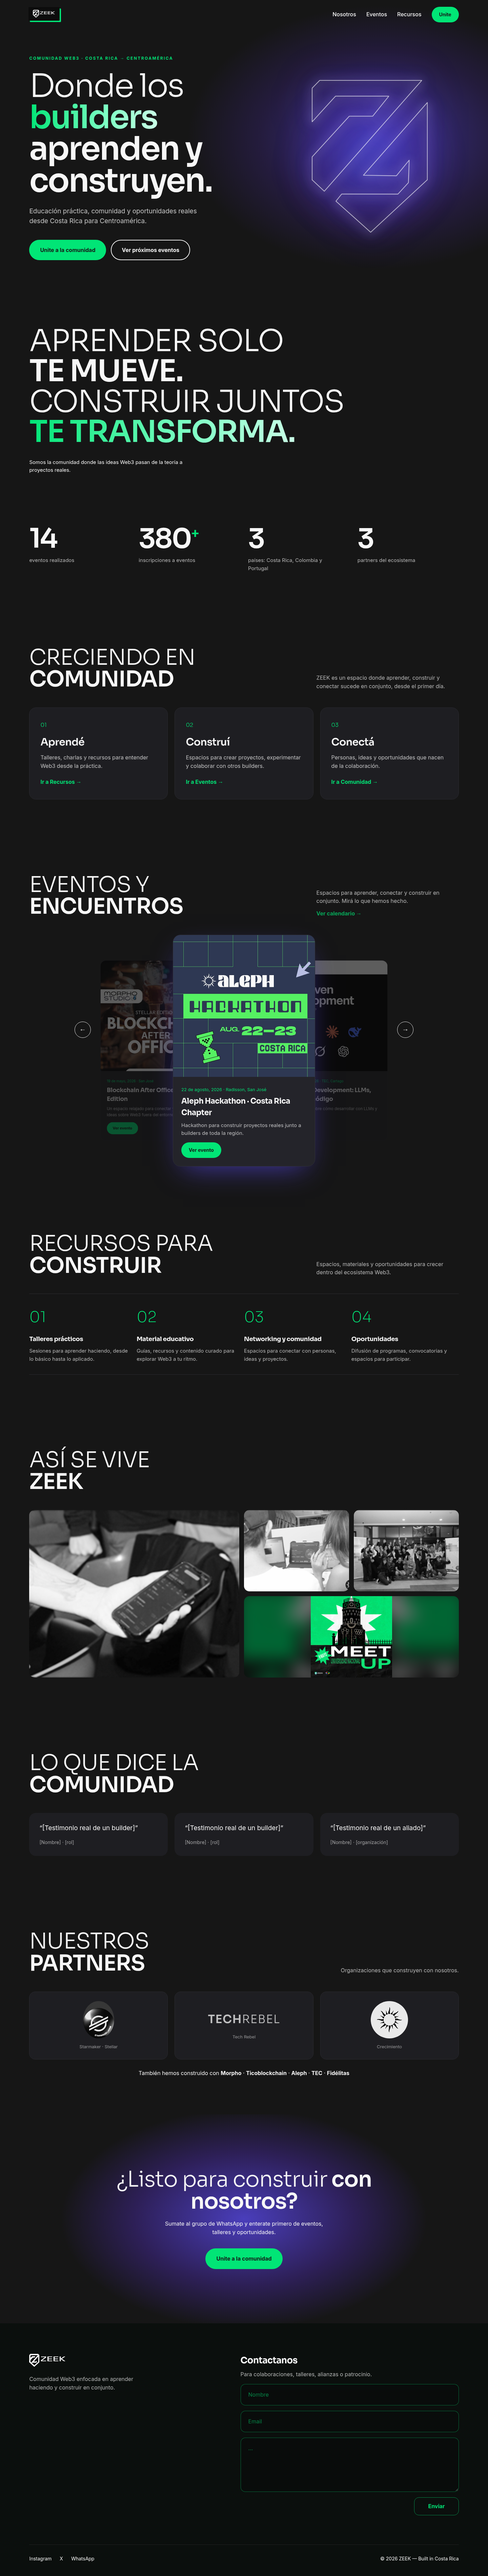
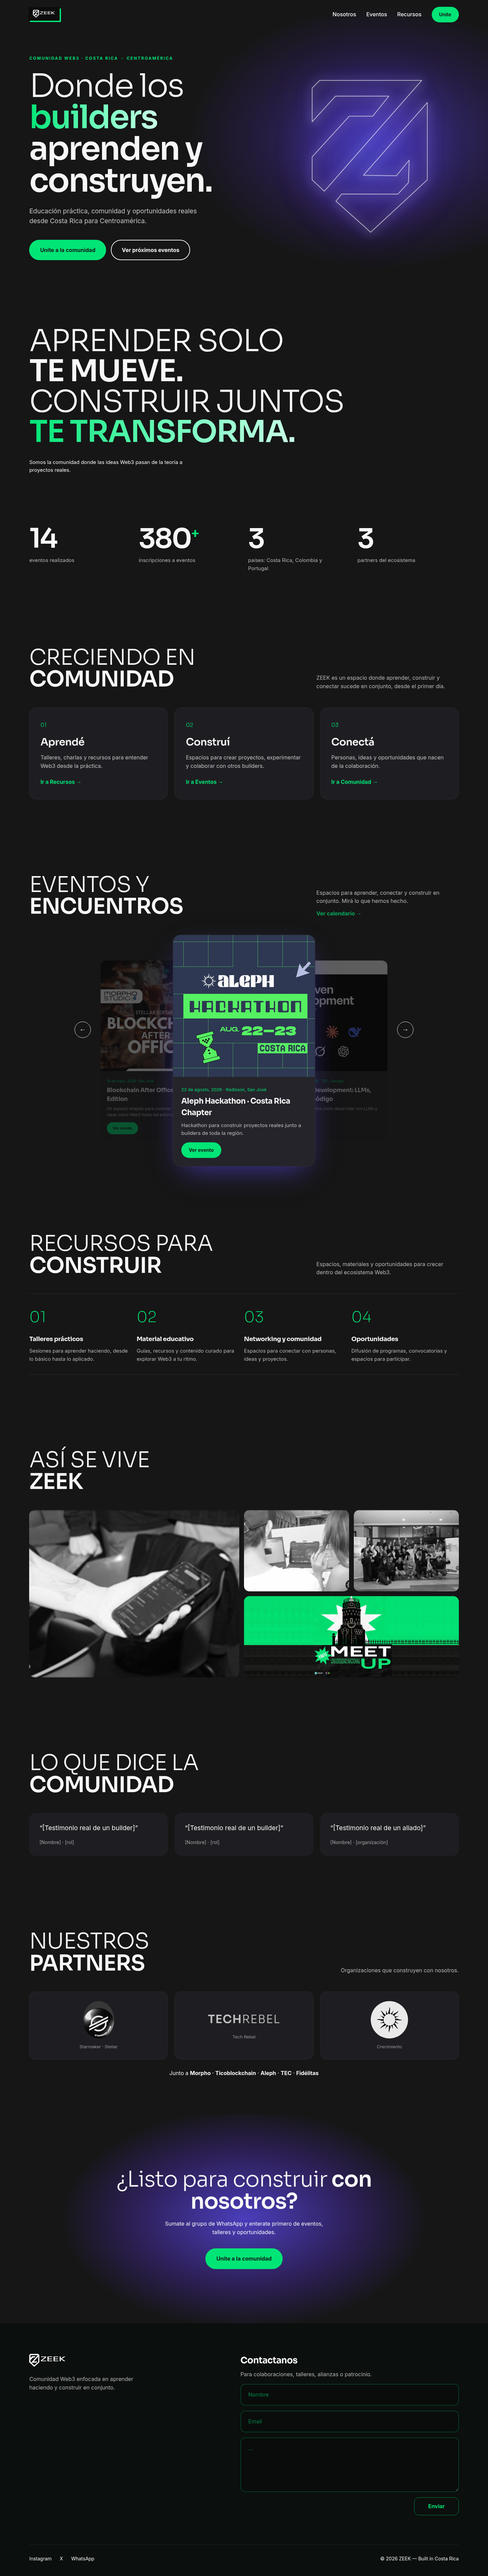
P9: poster ancho en galeria, Junto a

Changed region(s): [[0.7812, 0.5929, 0.9375, 0.6553], [0.5, 0.5929, 0.6562, 0.6553]]

diff --git a/p9/index.html b/p9/index.html
@@ -55,7 +55,7 @@ h2{font-size:clamp(30px,4.4vw,68px);line-height:1.02;text-transform:uppercase}.h
 /* recursos */
 .rec{display:grid;grid-template-columns:repeat(4,1fr);border-top:1px solid #2c2c30}.rec article{padding:34px 26px 34px 0;border-bottom:1px solid #2c2c30}.rec b{font-family:Sora;font-weight:200;font-size:44px;color:var(--g);display:block;margin-bottom:18px}.rec h3{font-size:18px;margin-bottom:8px}.rec p{opacity:.7;font-size:15px}
 /* gallery */
-.gal{display:grid;grid-template-columns:2fr 1fr 1fr;grid-template-rows:240px 240px;gap:14px}.gal img,.phd{width:100%;height:100%;object-fit:cover;border-radius:16px}.gal img:first-child{grid-row:span 2}.gal .wide{grid-column:span 2}.fit{position:relative;overflow:hidden;border-radius:16px;background:#111}.fit::before{content:"";position:absolute;inset:-20px;background:var(--bg) center/cover;filter:blur(24px) brightness(.45)}.gal .fit img{position:relative;width:100%;height:100%;object-fit:contain;border-radius:0}.phd{display:grid;place-items:center;grid-column:span 2;border:1px dashed #3a3a44;opacity:.6;font-weight:700}
+.gal{display:grid;grid-template-columns:2fr 1fr 1fr;grid-template-rows:240px 240px;gap:14px}.gal img,.phd{width:100%;height:100%;object-fit:cover;border-radius:16px}.gal img:first-child{grid-row:span 2}.gal .wide{grid-column:span 2;object-fit:cover;object-position:center}.fit{position:relative;overflow:hidden;border-radius:16px;background:#111}.fit::before{content:"";position:absolute;inset:-20px;background:var(--bg) center/cover;filter:blur(24px) brightness(.45)}.gal .fit img{position:relative;width:100%;height:100%;object-fit:contain;border-radius:0}.phd{display:grid;place-items:center;grid-column:span 2;border:1px dashed #3a3a44;opacity:.6;font-weight:700}
 .tq{display:grid;grid-template-columns:repeat(3,1fr);gap:20px}.tq blockquote{padding:30px;border-radius:20px;background:var(--c);font-size:19px}.tq cite{display:block;margin-top:16px;font-style:normal;font-size:14px;opacity:.6}
 /* cierre */
 .cierre{text-align:center;padding:160px 6vw;background:radial-gradient(ellipse 50% 70% at 50% 50%,rgba(91,75,242,.75),rgba(99,53,237,.3) 45%,transparent 75%)}
@@ -74,7 +74,7 @@ form input::placeholder,form textarea::placeholder{color:rgba(1,229,118,.55)}for
 section{padding:72px 6vw}.hero{grid-template-columns:1fr;min-height:auto;padding-top:130px;background:radial-gradient(ellipse 90% 40% at 50% 80%,rgba(91,75,242,.5),transparent 70%)}.hero h1{font-size:clamp(32px,9.6vw,56px)}.iso{max-width:300px;margin:20px auto 0}
 .mani p{font-size:clamp(24px,7.6vw,48px)}.stats{grid-template-columns:1fr 1fr}.cards,.tq{grid-template-columns:1fr}.rec{grid-template-columns:1fr 1fr}
 .car{height:600px}#pv{left:0}#nx{right:0}.slide.h{transform:scale(.6);opacity:0;z-index:0;pointer-events:none}.cal{display:inline-block;margin-top:12px;color:var(--g);font-weight:700}.slide.l{transform:translateX(-30%) scale(.8)}.slide.r{transform:translateX(30%) scale(.8)}
-.gal{grid-template-columns:1fr 1fr;grid-template-rows:160px 160px 160px}.gal img:first-child{grid-column:span 2;grid-row:auto}footer{grid-template-columns:1fr}.soc span{margin-left:0}h2{font-size:clamp(26px,7.6vw,40px)}.cierre{padding:110px 6vw}}
+.gal{grid-template-columns:1fr 1fr;grid-template-rows:160px 160px auto}.gal .wide{height:auto;aspect-ratio:2/1}.gal img:first-child{grid-column:span 2;grid-row:auto}footer{grid-template-columns:1fr}.soc span{margin-left:0}h2{font-size:clamp(26px,7.6vw,40px)}.cierre{padding:110px 6vw}}
 .pl{display:grid;grid-template-columns:repeat(3,1fr);gap:20px}.pl a{display:flex;flex-direction:column;align-items:center;justify-content:center;gap:14px;height:200px;border-radius:18px;background:var(--c);border:1px solid #2b2b31;transition:.3s}.pl img{height:110px;max-width:70%;object-fit:contain;border-radius:50%;filter:grayscale(1) brightness(1.5) contrast(1.15);opacity:.9;transition:.3s}.pl span{font-size:13px;opacity:.55}.pl a:hover{border-color:var(--g)}.pl a:hover img{filter:none;opacity:1}.wm{font-family:Sora;font-size:34px;font-weight:600;letter-spacing:.04em;opacity:.75;transition:.3s}.wm i{font-style:normal;font-weight:300}.pl a:hover .wm{opacity:1;color:var(--g)}.also{margin-top:28px;opacity:.65;text-align:center}.also b{font-weight:600;color:var(--w)}@media(max-width:860px){.pl{grid-template-columns:1fr}.pl a{height:150px}}</style></head><body>
 <header class="nav" id="nav"><a class="logo" href="#top"><span><img src="assets/zeek-navbar.png" alt="ZEEK"></span></a>
 <input type="checkbox" id="m"><label for="m" class="burger">☰</label>
@@ -96,11 +96,11 @@ section{padding:72px 6vw}.hero{grid-template-columns:1fr;min-height:auto;padding
 <div class="cc"><div class="dots" id="dots"></div></div></section>
 <section id="recursos"><div class="hd"><h2><span class="thin">Recursos para</span><br><span class="heavy">construir</span></h2><p>Espacios, materiales y oportunidades para crecer dentro del ecosistema Web3.</p></div>
 <div class="rec"><article><b>01</b><h3>Talleres prácticos</h3><p>Sesiones para aprender haciendo, desde lo básico hasta lo aplicado.</p></article><article><b>02</b><h3>Material educativo</h3><p>Guías, recursos y contenido curado para explorar Web3 a tu ritmo.</p></article><article><b>03</b><h3>Networking y comunidad</h3><p>Espacios para conectar con personas, ideas y proyectos.</p></article><article><b>04</b><h3>Oportunidades</h3><p>Difusión de programas, convocatorias y espacios para participar.</p></article></div></section>
-<section><div class="hd"><h2><span class="thin">Así se vive</span><br><span class="heavy">ZEEK</span></h2></div><div class="gal"><img src="assets/people1.png" alt=""><img src="assets/people2.png" alt=""><img src="assets/people3.png" alt=""><div class="wide fit" style="--bg:url(assets/gal-una.jpg)"><img src="assets/gal-una.jpg" alt="Meet Up UNA · 9 de mayo"></div></div></section>
+<section><div class="hd"><h2><span class="thin">Así se vive</span><br><span class="heavy">ZEEK</span></h2></div><div class="gal"><img src="assets/people1.png" alt=""><img src="assets/people2.png" alt=""><img src="assets/people3.png" alt=""><img class="wide" src="assets/gal-una-wide.jpg" alt="Meet Up UNA · 9 de mayo"></div></section>
 <section><div class="hd"><h2><span class="thin">Lo que dice la</span><br><span class="heavy">comunidad</span></h2></div><div class="tq"><blockquote>“[Testimonio real de un builder]”<cite>[Nombre] · [rol]</cite></blockquote><blockquote>“[Testimonio real de un builder]”<cite>[Nombre] · [rol]</cite></blockquote><blockquote>“[Testimonio real de un aliado]”<cite>[Nombre] · [organización]</cite></blockquote></div></section>
 <section class="partners"><div class="hd"><h2><span class="thin">Nuestros</span><br><span class="heavy">partners</span></h2><p>Organizaciones que construyen con nosotros.</p></div>
 <div class="pl"><a href="https://linktr.ee/StellarLATAM" target="_blank" rel="noopener"><img src="assets/p-stellar.jpg" alt="Starmaker – Stellar"><span>Starmaker · Stellar</span></a><a href="https://www.techrebel.world" target="_blank" rel="noopener"><b class="wm">TECH<i>REBEL</i></b><span>Tech Rebel</span></a><a href="https://x.com/crecimientoar" target="_blank" rel="noopener"><img src="assets/p-crecimiento.jpg" alt="Crecimiento"><span>Crecimiento</span></a></div>
-<p class="also">También hemos construido con <b>Morpho</b> · <b>Ticoblockchain</b> · <b>Aleph</b> · <b>TEC</b> · <b>Fidélitas</b></p></section>
+<p class="also">Junto a <b>Morpho</b> · <b>Ticoblockchain</b> · <b>Aleph</b> · <b>TEC</b> · <b>Fidélitas</b></p></section>
 <section class="cierre"><h2><span class="thin">¿Listo para construir</span> <span class="heavy">con nosotros?</span></h2><p>Sumate al grupo de WhatsApp y enterate primero de eventos, talleres y oportunidades.</p><a class="btn pri" href="https://chat.whatsapp.com/IwohPWSez627OG74k8jRvA">Unite a la comunidad</a></section>
 <footer id="contacto"><div class="fc"><img src="assets/zeek-navbar.png" alt="ZEEK"><p>Comunidad Web3 enfocada en aprender haciendo y construir en conjunto.</p></div>
 <form onsubmit="return false"><h3>Contactanos</h3><p>Para colaboraciones, talleres, alianzas o patrocinio.</p><input placeholder="Nombre"><input type="email" placeholder="Email"><textarea placeholder="..."></textarea><button class="send">Enviar</button></form>
